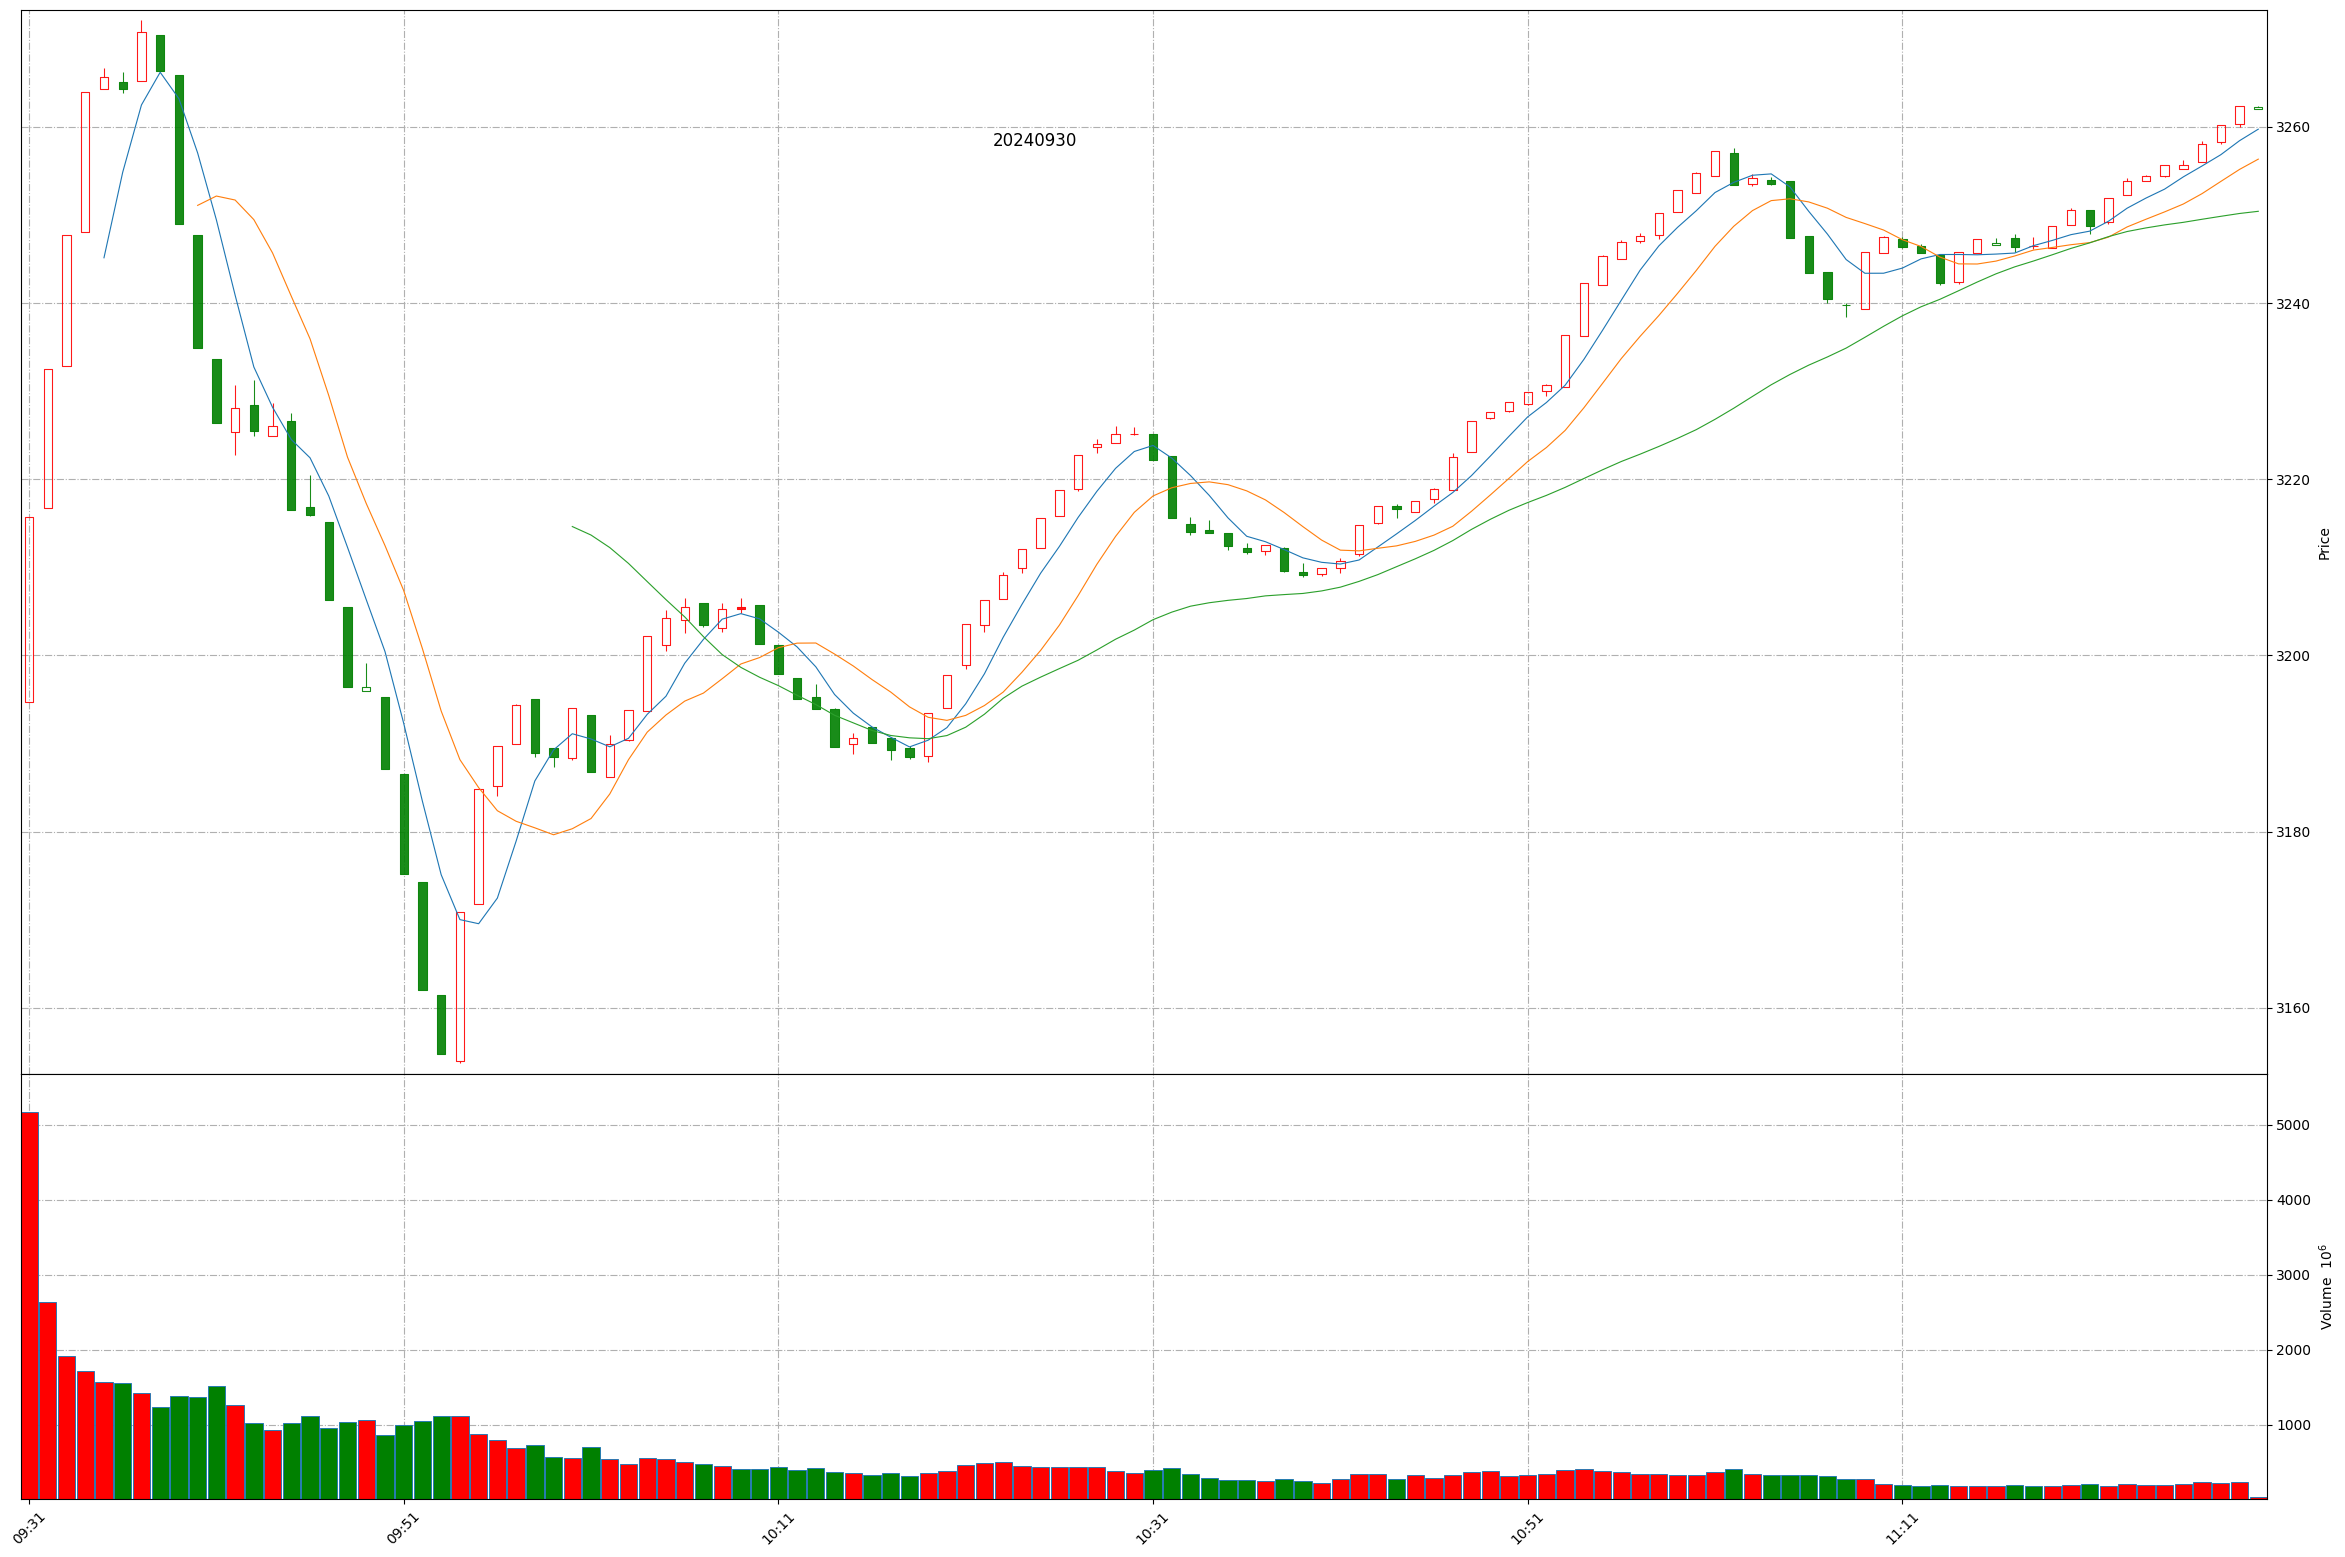
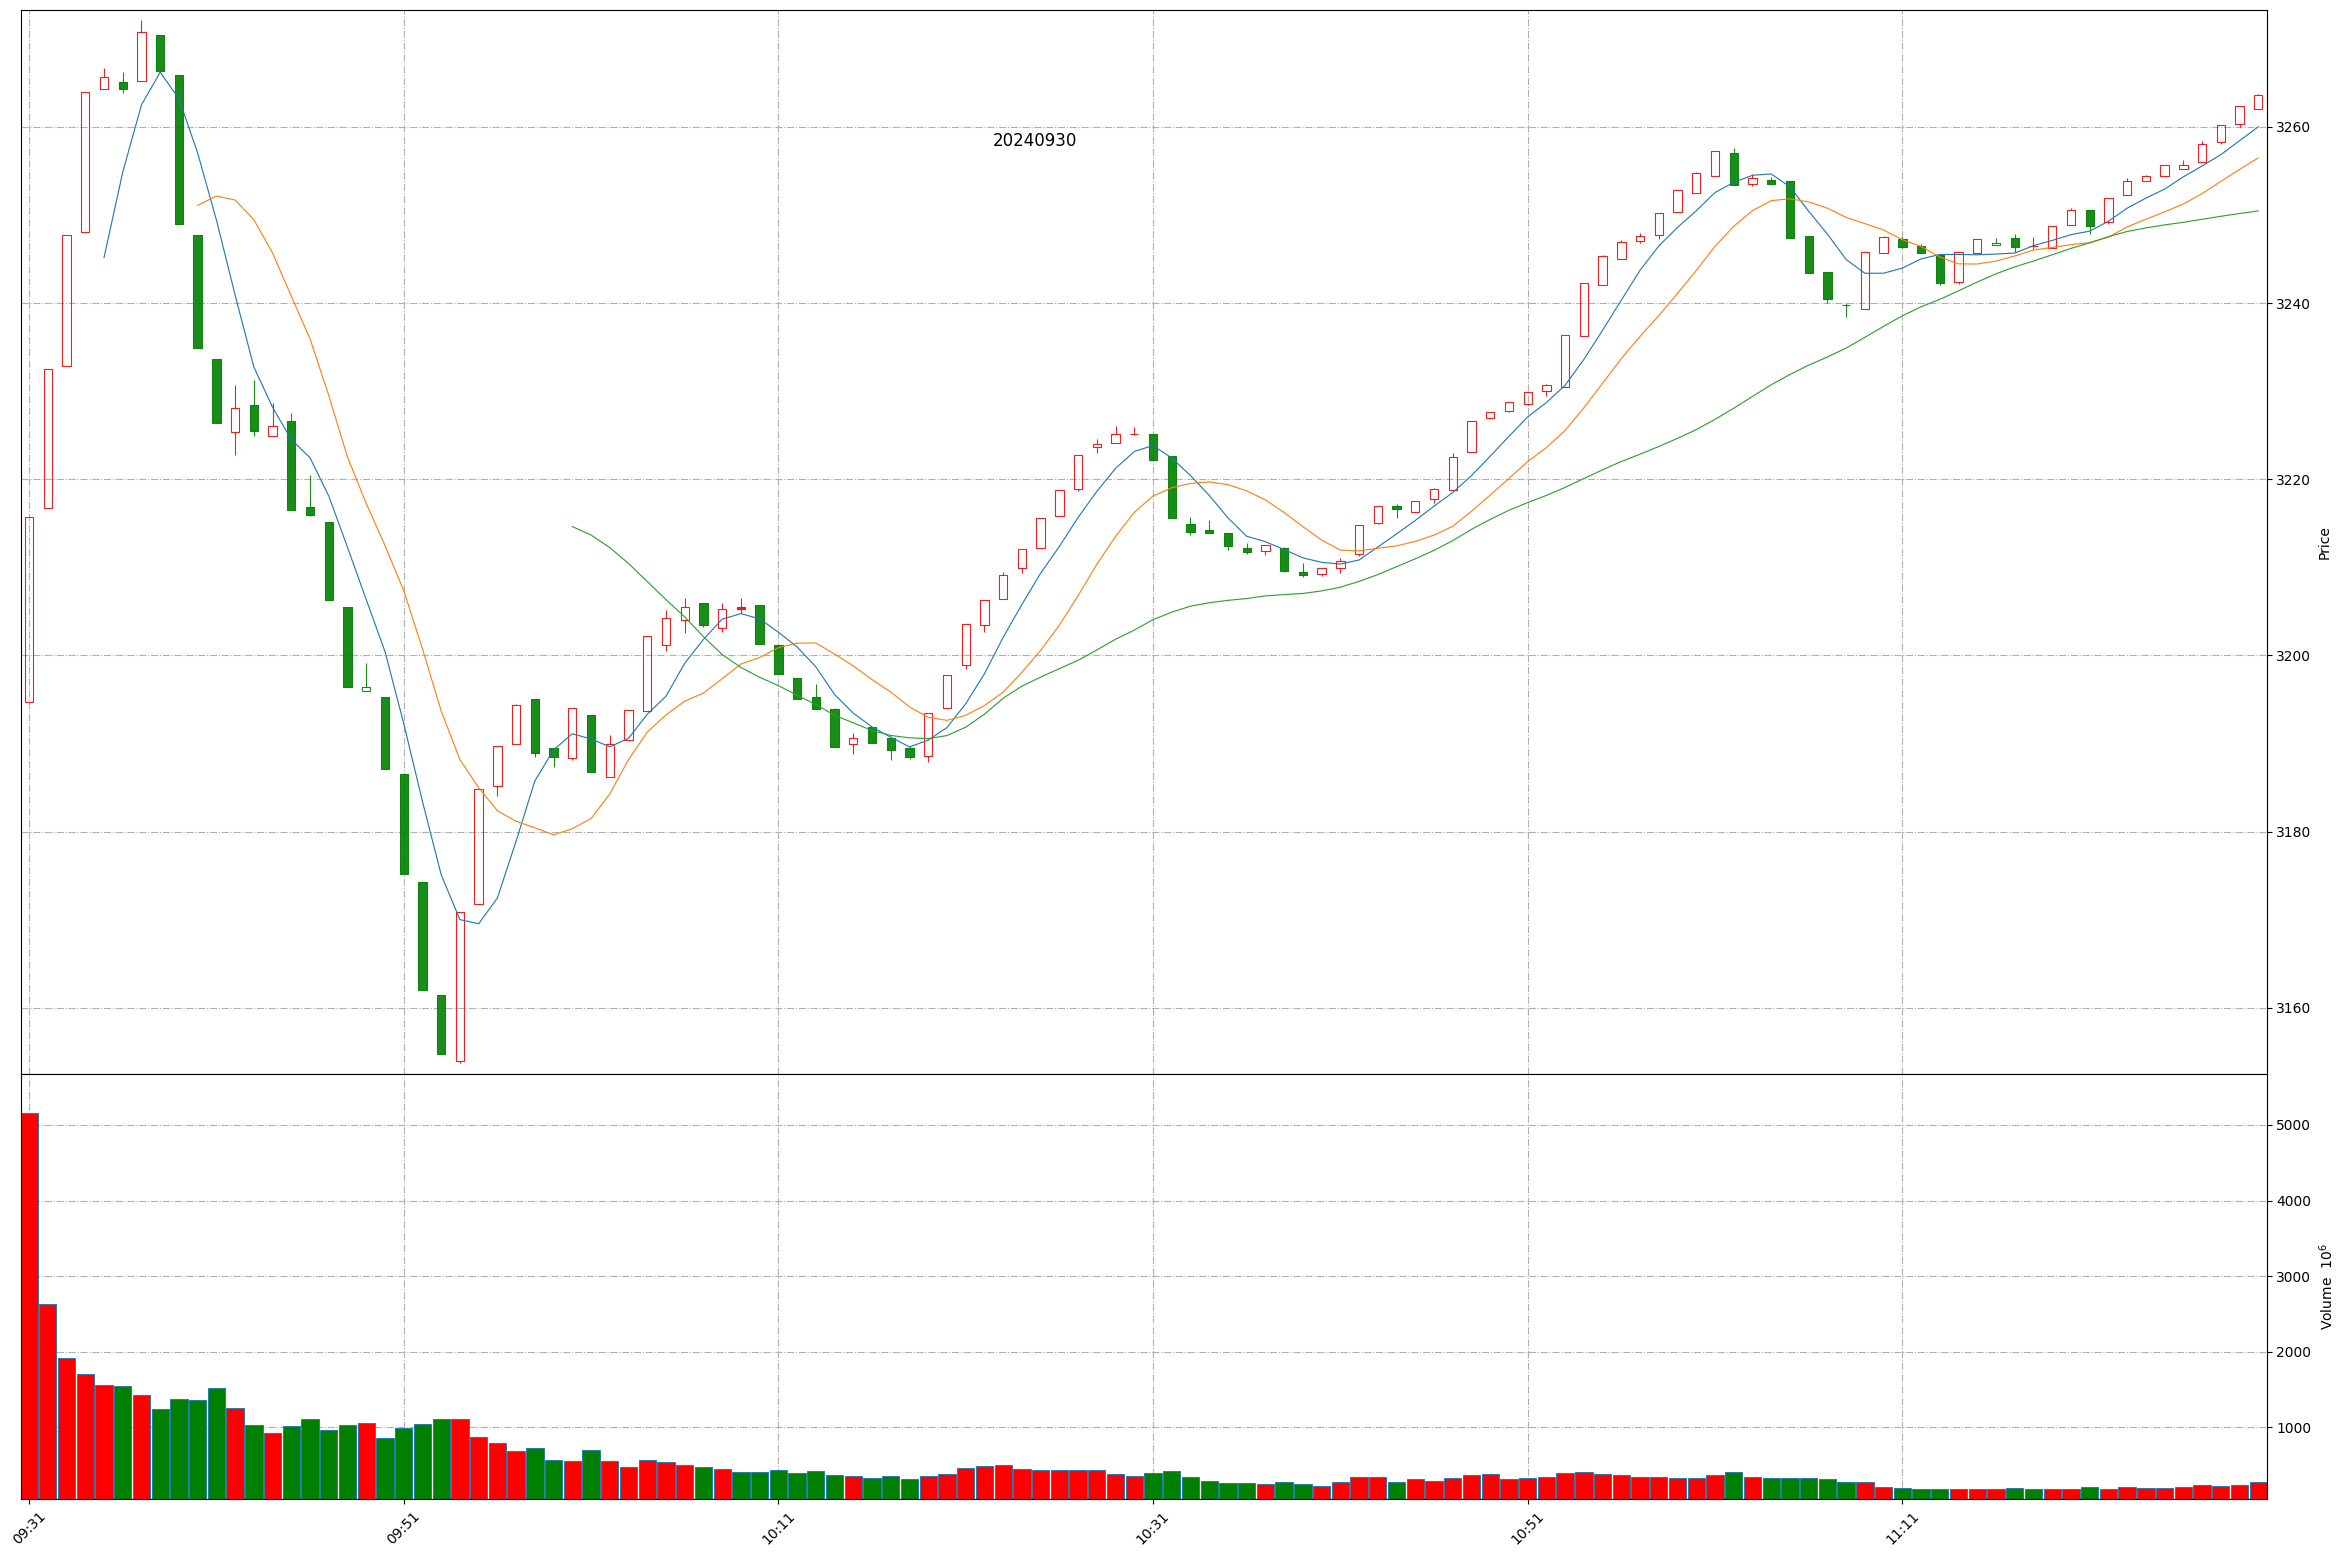
Github action update at 2024-09-30 11:36:25.

diff --git a/README.md b/README.md
@@ -1,11 +1,11 @@
 
 # Daily-A-share-market-quotes 每日 A 股指数（5min 更新）- 20240930
 
-### 上证指数 20240930 11:32
+### 上证指数 20240930 11:36
 ![](./fig/2024/9/20240930-sh000001.png)
 
-### 深证成指 20240930 11:32
+### 深证成指 20240930 11:36
 ![](./fig/2024/9/20240930-sz399001.png)
 
-### 北证50 20240930 11:32
+### 北证50 20240930 11:36
 ![](./fig/2024/9/20240930-bj899050.png)
